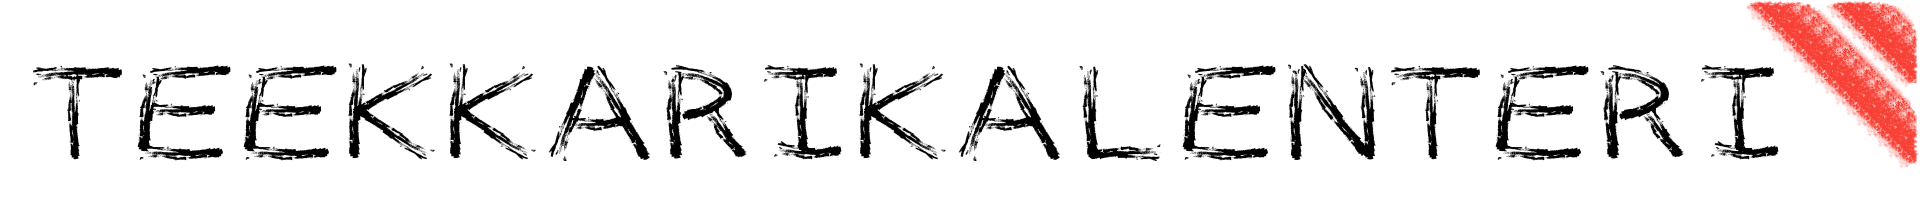
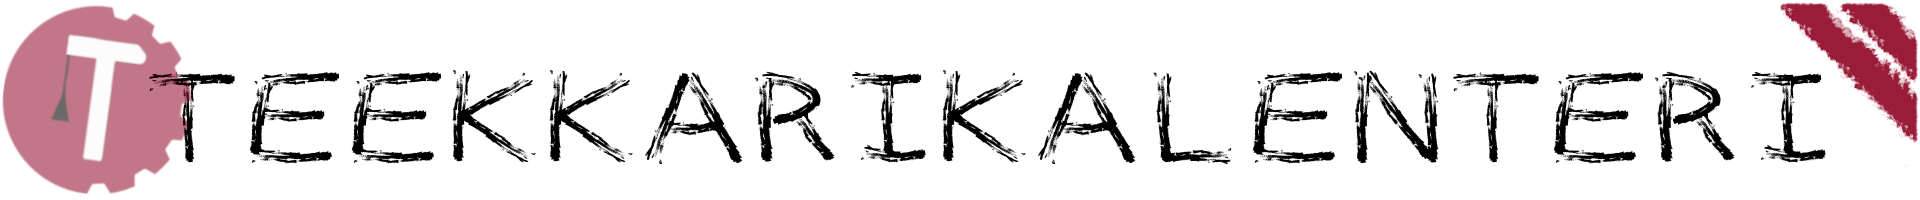
Treekkarit theme

Changed region(s): [[0.0, 0.0, 1.0, 0.96]]

diff --git a/client/src/components/ProfileForm.js b/client/src/components/ProfileForm.js
@@ -217,7 +217,10 @@ const UserInformationForm = ({ profile, handleHide = null }) => {
       </div>
 
       <div>
-        <button type='submit' className='btn btn-danger'>
+        <button
+          type='submit'
+          className='btn btn-treekkari'
+        >
           Vahvista
         </button>
       </div>
@@ -348,7 +351,10 @@ const NewPasswordForm = ({ id, handleHide = null }) => {
       </div>
 
       <div>
-        <button type='submit' className='btn btn-danger'>
+        <button
+          type='submit'
+          className='btn btn-treekkari'
+        >
           Vahvista
         </button>
       </div>
@@ -365,7 +371,7 @@ const ProfileForm = ({ profile, handleHide }) => {
     <div>
       <div className='btn-group btn-group-toggle button-group' data-toggle='buttons'>
         <label // eslint-disable-line
-          className='btn btn-danger active'
+          className='btn btn-treekkari active'
           onClick={() => setEditPassword(false)}
         >
           <input type='radio' name='options' id='option1' autoComplete='off' />
@@ -373,7 +379,7 @@ const ProfileForm = ({ profile, handleHide }) => {
         </label>
 
         <label // eslint-disable-line
-          className='btn btn-danger'
+          className='btn btn-treekkari'
           onClick={() => setEditPassword(true)}
         >
           <input type='radio' name='options' id='option2' autoComplete='off' />

diff --git a/client/src/App.css b/client/src/App.css
@@ -10,6 +10,36 @@ hr {
   color: #919191;
 }
 
+.btn-treekkari {
+  color: #ffffff;
+  background-color: #991C38;
+  border: none;
+}
+
+.btn-treekkari:hover,
+.btn-treekkari:focus {
+  background-color: #5D081A;
+  color: #ffffff;
+}
+
+.btn-treekkari:focus {
+  box-shadow: 0px 0px 0.3rem #991C38;
+}
+
+.btn-treekkari:active {
+  background-color:  #5D081A;
+  color: #ffffff;
+  box-shadow: 0px 0px 0.3rem #991C38;
+}
+
+.active {
+  background-color:#711224;
+}
+
+.btn.focus {
+  box-shadow: 0px 0px 0.3rem #991C38;
+}
+
 .background {
   min-height: 100vh;
   background-size: cover;
@@ -33,7 +63,7 @@ hr {
 
 /* Navbar base style */
 .navbar {
-  background-color: #f84B40;
+  background-color: #991C38;
   margin-top: 5px;
   margin-bottom: 10px;
 }
@@ -130,7 +160,7 @@ div.container {
 /* Form base focus style */
 .form-control:focus {
   border-color: transparent; 
-  box-shadow: 0px 0px 2px #f84136;
+  box-shadow: 0px 0px 2px #991C38;
 }
 
 .form-control.date {

diff --git a/client/src/components/EventForm.js b/client/src/components/EventForm.js
@@ -380,7 +380,7 @@ const EventForm = ({ eventoToModify = null, editDoneHandler = null }) => {
           * = Pakollinen kenttä
         </div>
 
-        <button type='submit' className='btn btn-danger'>
+        <button type='submit' className='btn  btn-treekkari'>
           {
             eventoToModify === null
               ? 'Lisää tapahtuma'
@@ -429,7 +429,7 @@ const EventForm = ({ eventoToModify = null, editDoneHandler = null }) => {
             <div className='modal-footer modal-center'>
               <button
                 type='button'
-                className='btn btn-danger'
+                className='btn '
                 data-dismiss='modal'
               >
                 Sulje

diff --git a/client/src/components/LoginForm.js b/client/src/components/LoginForm.js
@@ -81,7 +81,7 @@ const LoginForm = () => {
               <td>
                 <button
                   type='submit'
-                  className='btn btn-danger login-form-button'
+                  className='btn btn-treekkari login-form-button'
                 >
                   Kirjaudu
                 </button>

diff --git a/client/src/components/EditEventPage.js b/client/src/components/EditEventPage.js
@@ -5,7 +5,7 @@ const EditEventPage = ({ eventToModify, backHandler }) => (
   <div>
     <button
       type='button'
-      className='btn btn-danger'
+      className='btn btn-treekkari'
       onClick={backHandler}
     >
       Takaisin

diff --git a/client/src/components/ManageProfile.js b/client/src/components/ManageProfile.js
@@ -81,7 +81,7 @@ const ManageProfile = () => {
     <div>
       <button
         type='button'
-        className='btn btn-danger'
+        className='btn btn-treekkari'
         onClick={() => handleSetEdit()}
       >
         {

diff --git a/client/src/components/ManagePage.js b/client/src/components/ManagePage.js
@@ -37,7 +37,7 @@ const ManagePage = () => {
       </h2>
 
       <button
-        className='btn btn-danger'
+        className='btn btn-treekkari'
         type='button'
         onClick={handleLogout}
       >
